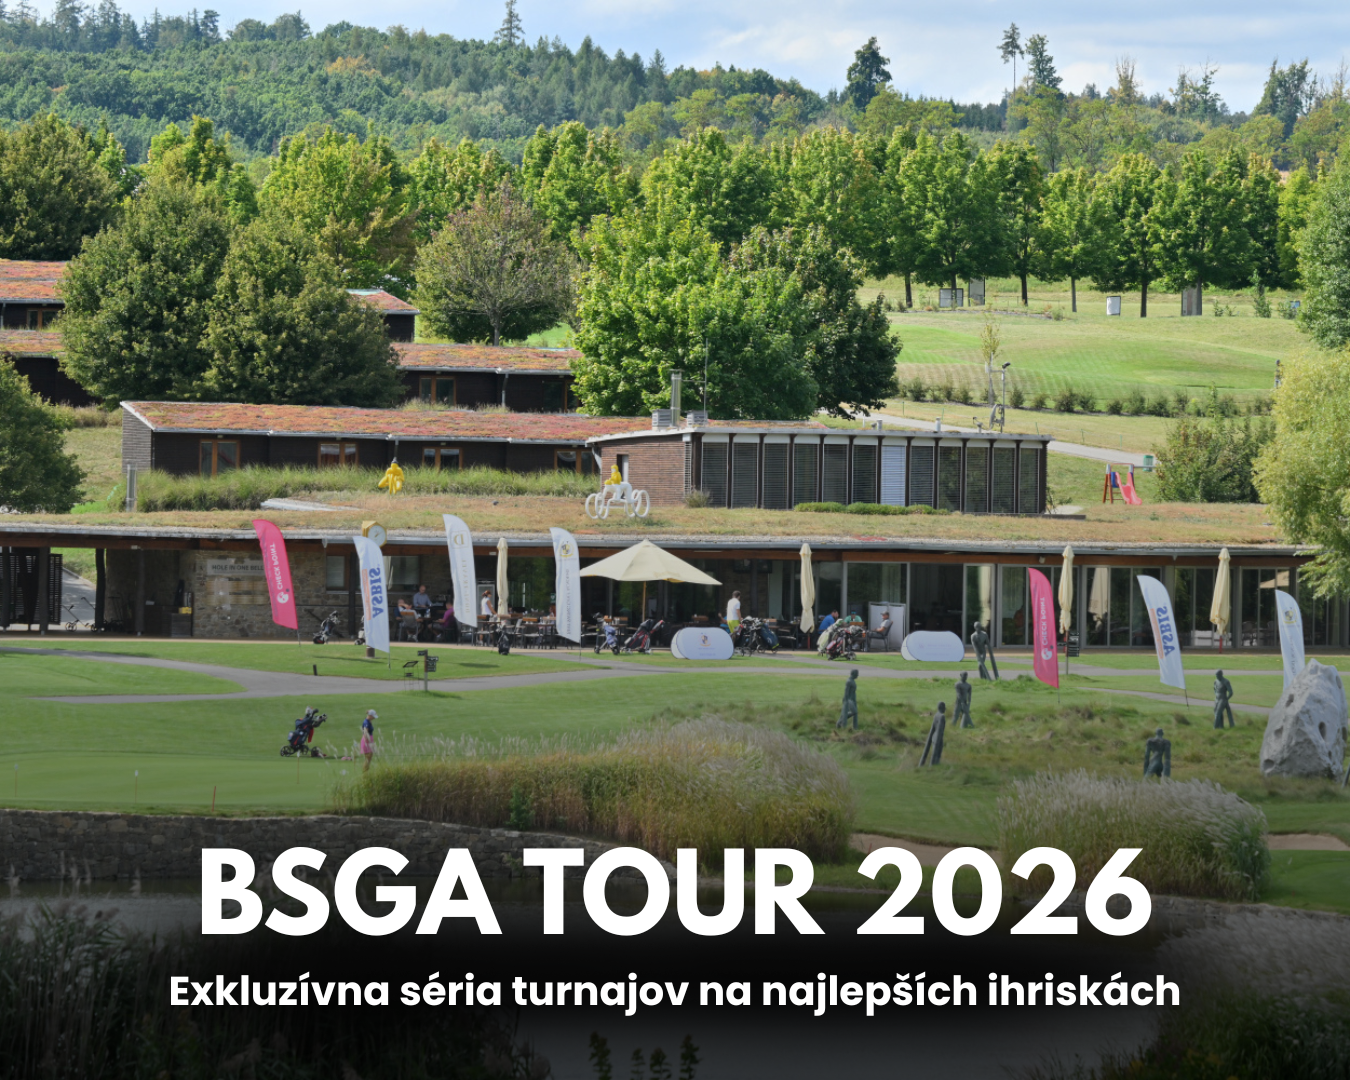
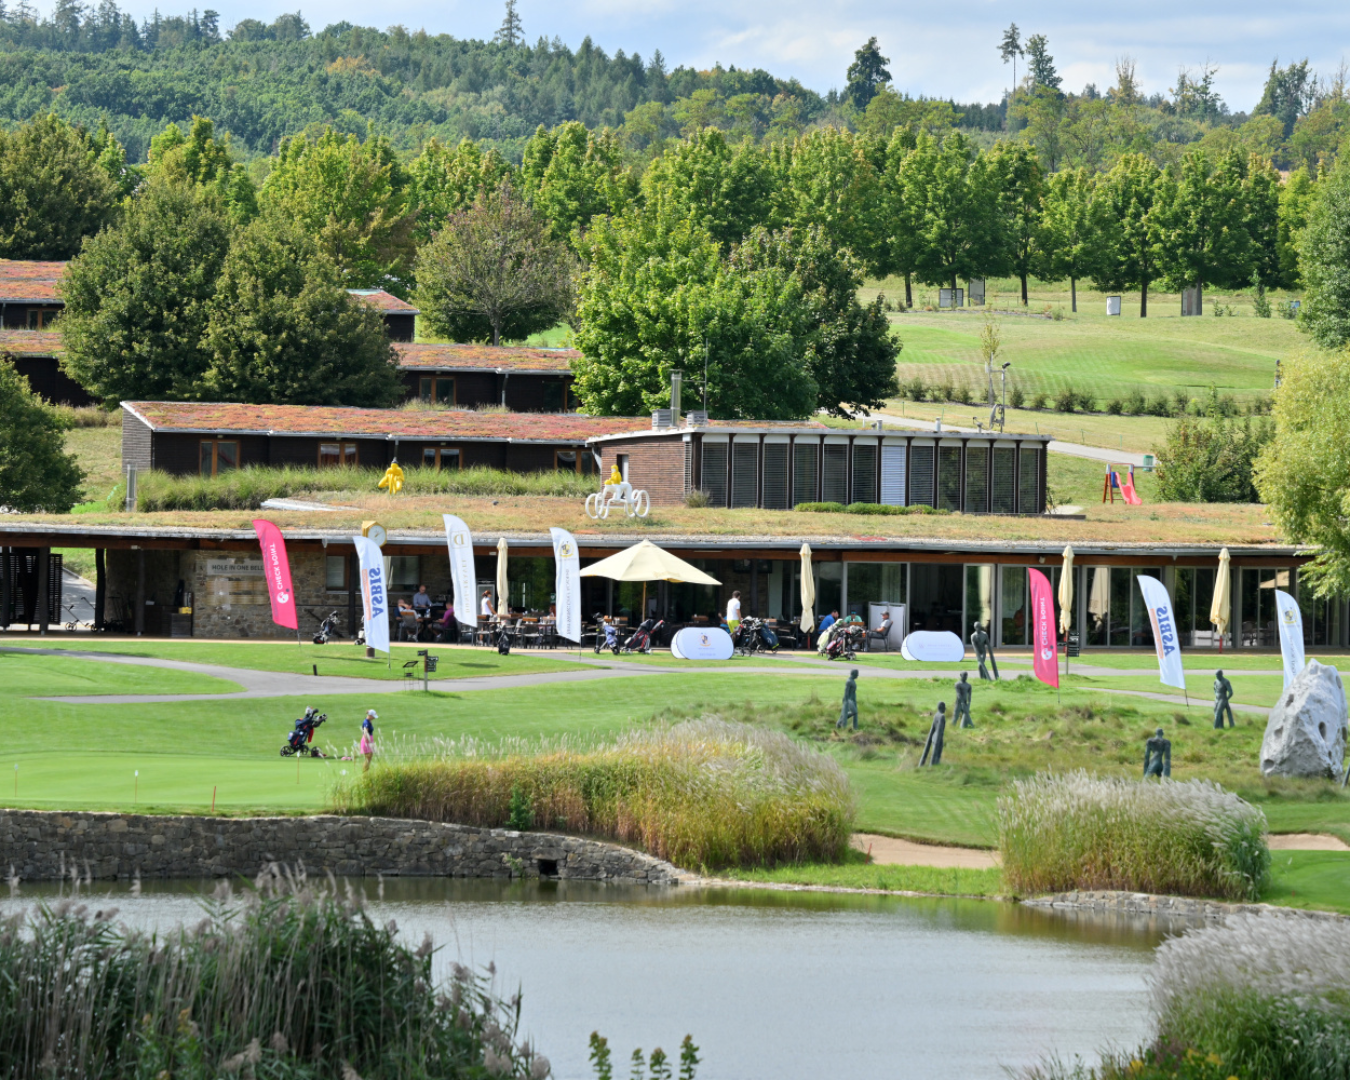
Changes

diff --git a/src/pages/Tour.tsx b/src/pages/Tour.tsx
@@ -71,16 +71,17 @@ const Tour = () => {
                   className="absolute inset-0 h-full w-full object-cover"
                   loading="eager"
                 />
+                <div className="absolute inset-0 bg-gradient-to-t from-black/80 via-black/35 to-black/15" />
 
-                <div className="relative z-10 flex h-full min-h-[460px] items-end sm:min-h-[560px] md:min-h-[680px]">
-                  <div className="container mx-auto px-4 py-8 sm:px-6 sm:py-12 md:py-14">
+                <div className="relative z-10 flex h-full min-h-[460px] items-center sm:min-h-[560px] md:min-h-[680px]">
+                  <div className="container mx-auto px-4 py-10 text-center sm:px-6 sm:py-12 md:py-14">
                     <span className="text-primary-foreground/90 text-xs sm:text-sm tracking-[0.15em] sm:tracking-[0.2em] uppercase">
                       Turnaje
                     </span>
-                    <h1 className="mt-3 max-w-5xl text-4xl font-serif font-bold text-primary-foreground sm:mt-4 sm:text-5xl md:text-6xl lg:text-7xl">
+                    <h1 className="mt-3 text-4xl font-serif font-bold text-primary-foreground sm:mt-4 sm:text-5xl md:text-6xl lg:text-7xl">
                       BSGA Tour 2026
                     </h1>
-                    <p className="mt-4 max-w-3xl text-base text-primary-foreground/95 sm:text-lg md:text-xl">
+                    <p className="mt-4 mx-auto max-w-3xl text-base text-primary-foreground/95 sm:text-lg md:text-xl">
                       Exkluzívna séria turnajov na najlepších slovenských ihriskách
                     </p>
                   </div>
